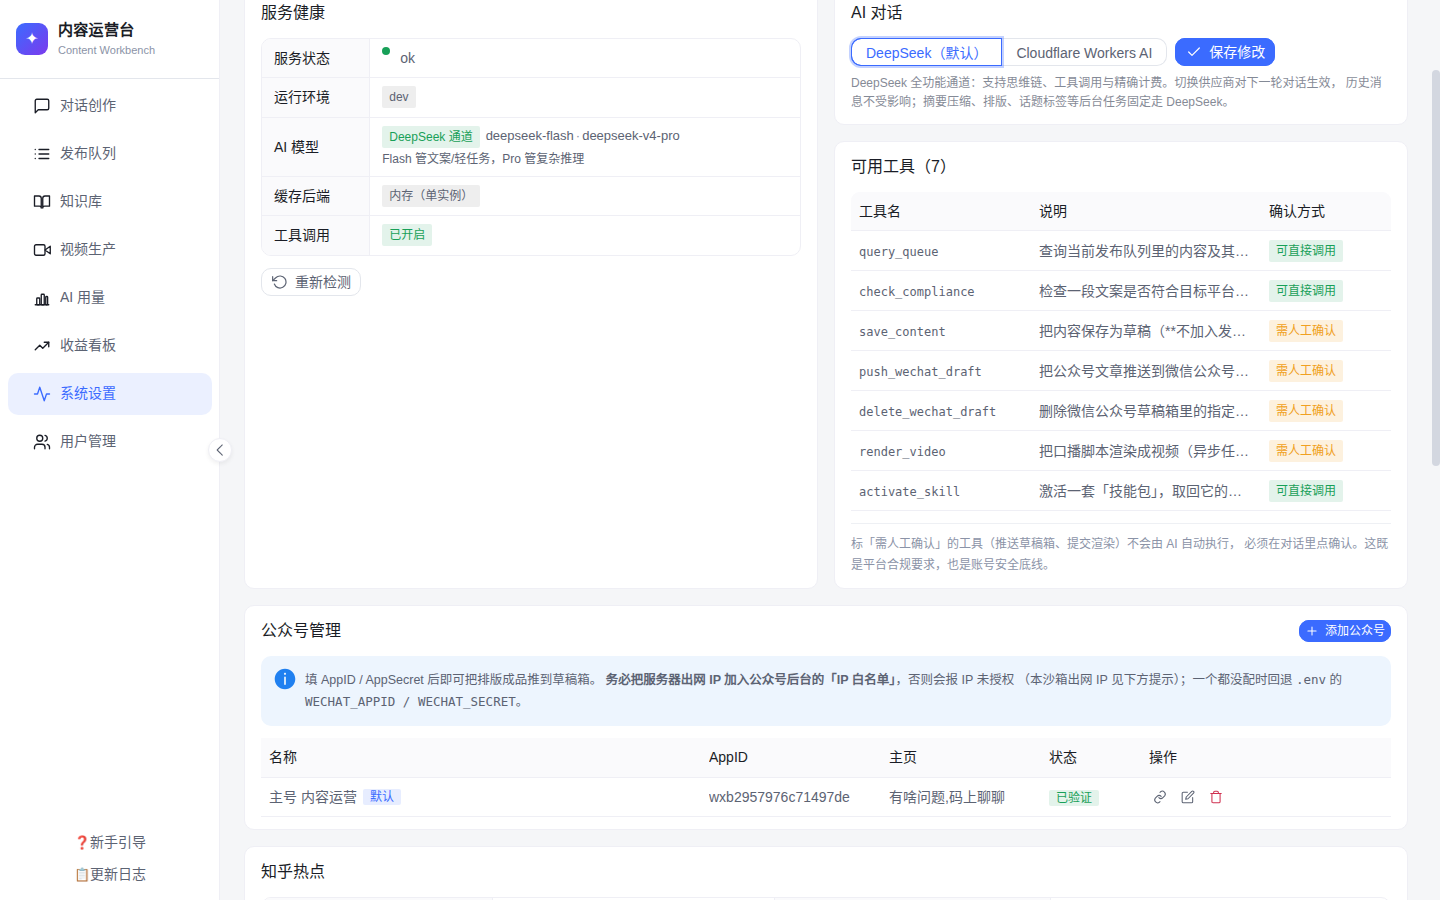
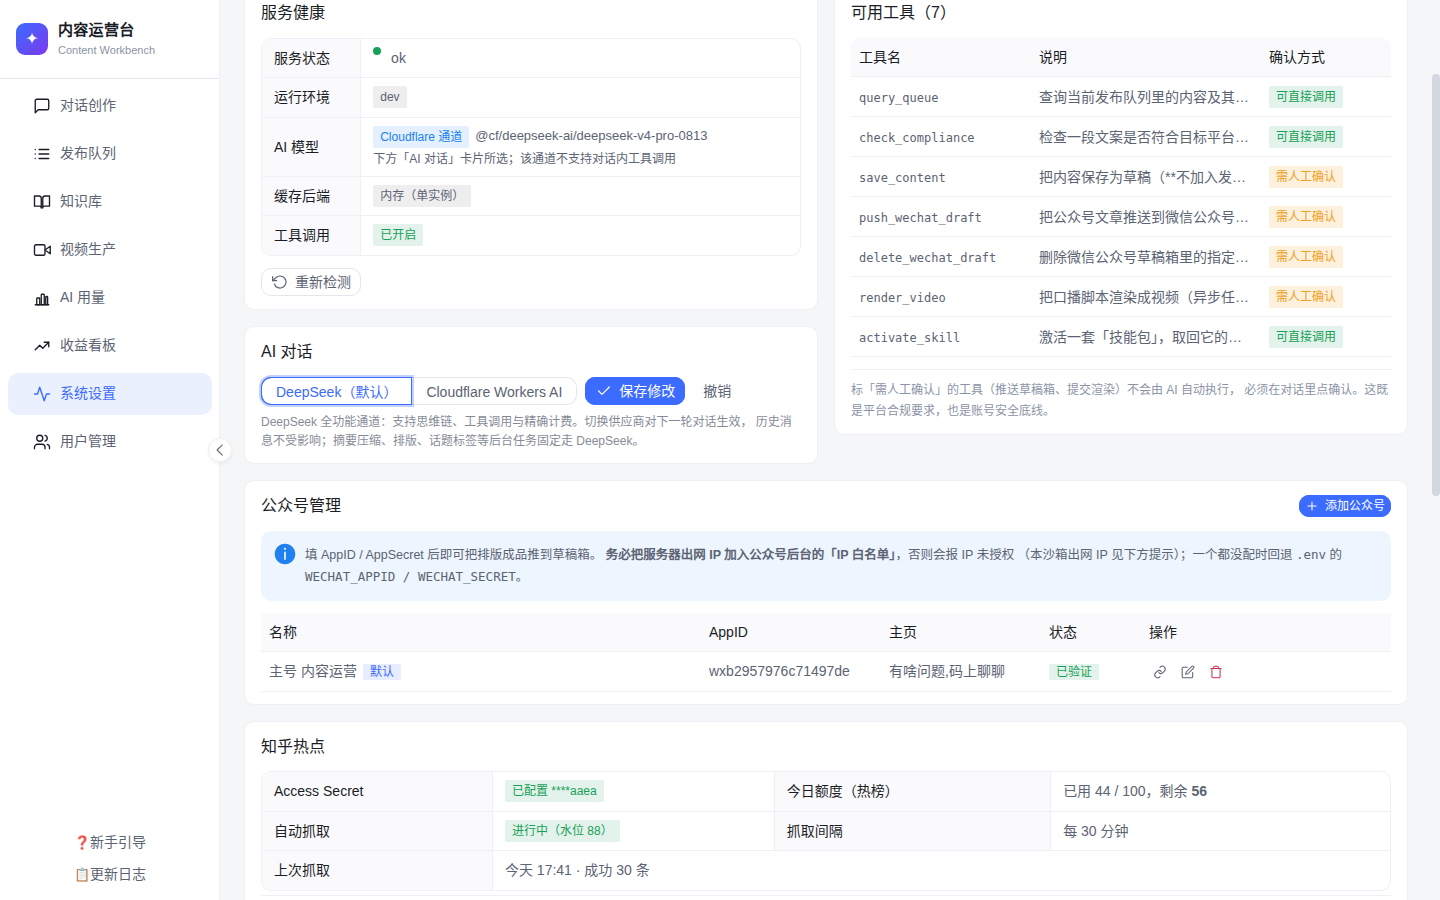
fix(settings): 去掉等高改为按内容高度排 + AI 对话整卡锁定语义
承接上一轮（c86bd54），用户反馈两点：
1. AI 模型已保存为啥还能修改；
2. 服务健康下面又是一大片空白。

布局：等高方案作废，改为按内容高度排
- 上一版把「服务健康」拉到与右列等高（684px），结果只是把空白从卡片外
  搬到卡片内：卡片内部 5 行 descriptions + 按钮只占三分之一，主体下方
  还空着 376px。
- 本轮改成不强行等高，重新分组：左列 = 服务健康(323) + AI 对话(199)，
  右列 = 可用工具(469) 独占。三张卡都按内容高度收尾，整行高度从 684
  降到 538（页面矮了 146px），右下那条缝只剩 69px，由「公众号管理」
  自然跟进填充。
- 删掉 .health-card 相关的 flex 拉伸 CSS 和移动端覆盖。

顺带修掉一个隐藏的 CSS 无效写法
- .health-card 就是 .n-card 本身（NCard 的 class 落在根节点），上一版写
  的 .health-card :deep(.n-card) 选的是不存在的子节点，一条都没命中。
  另外 Naive UI 的内容区类名是 n-card-content，不是 n-card__content。

AI 对话：整卡锁定，不再只有右半边锁
- 上一版只让模型下拉跟随 providerDirty，通道单选始终可点，于是出现
  「下拉框拨不动、旁边单选却能点」的割裂感，用户直接问「已保存为啥还能
  修改」。
- 新增 providerEditing + providerLocked = providerReadonly || !editing：
  未改动时通道和模型都锁住，点「修改」解锁；改动后出现「撤销」，一键还原
  成已生效的值再锁回去。保存成功同样回到锁定态。
- 模型名是长串，手抄回原值不现实，「撤销」比逐字段改回可靠。

服务健康：改为展示「已生效」而非「编辑中」
- AI 模型栏原来读 chatProvider/chatModel，这是编辑中的草稿：拨了通道还没
  保存，服务健康就跟着变，让人以为已经生效。
- 改用 savedProvider/savedCfModel，编辑态一律不影响这一栏。验证：点修改
  拨到 DeepSeek 后健康卡仍显示 Cloudflare，保存后才切换。

验证（CDP 真实鼠标事件）：
  加载后        已保存 / 通道[锁] / 无撤销 / 有修改
  点修改        已保存 / 通道[开] / 无撤销
  拨 DeepSeek   保存修改(蓝) / 出现撤销 / 健康卡仍 Cloudflare
  点撤销        已保存 / 通道[锁] / 无撤销
  保存          健康卡同步切 DeepSeek
  刷新          仍为已保存锁定态

后端 198 项测试全过，vue-tsc 无错。截图更新 settings-layout.png /
settings-dirty.png（后者特意保留了「通道已拨 DeepSeek 但健康卡仍显示
Cloudflare」这个对照）。开发指南补 27-30 条纪律。

注：验证过程中一度把 admin 的 CF 模型写成 deepseek-v4-pro-0813，
已恢复为 @cf/deepseek-ai/deepseek-v4-flash-0731。

diff --git a/frontend/src/views/SettingsView.vue b/frontend/src/views/SettingsView.vue
@@ -87,7 +87,9 @@ const version = useVersionStore()
 // 服务健康的「AI 模型」要显示用户改后的实际模型，只读 health 的
 // .env 配置不够，得和这个拼起来才是真相。
 const chatProvider = ref<ChatProviderInfo>({ provider: 'deepseek', model: '', cloudflare_ready: false })
-const activeCfModel = computed(() => chatProvider.value.model || health.value?.cf_chat_model || '')
+// 已生效的 CF 模型：给「服务健康」用。读 savedModel 而不是 chatProvider.model ——
+// 后者是编辑中的草稿，用户拨了通道还没保存时不该污染「系统现状」这一栏
+const savedCfModel = computed(() => savedModel.value || health.value?.cf_chat_model || '')
 
 // ---------------------------------------------------------------- AI 对话
 // deepseek（默认，全功能）/ cloudflare（Workers AI）。只影响对话轮次，
@@ -115,15 +117,36 @@ const providerSaving = ref(false)
 const savedProvider = ref<ChatProviderInfo['provider']>('deepseek')
 const savedModel = ref('')
 
+// 「点了改才让改」：通道和模型都默认锁住，点「修改」解锁。
+// 光靠 providerDirty 局部禁用模型下拉满足不了这条 —— 通道切换随时可点，
+// 于是出现「下拉框拨不动、旁边单选却能点」的割裂感（用户 2026-10-22 反馈）。
+const providerEditing = ref(false)
+
 const providerDirty = computed(
   () =>
     chatProvider.value.provider !== savedProvider.value ||
     (chatProvider.value.provider === 'cloudflare' && chatModel.value !== savedModel.value),
 )
 
+// 控件是否可操作：只读（member）、未点「修改」、通道未就绪，三者任一都锁住
+const providerLocked = computed(() => providerReadonly.value || !providerEditing.value)
+
+function beginProviderEdit() {
+  providerEditing.value = true
+}
+
+// 撤销：把两个值都还原成已生效的版本，回到「已保存」。
+// 比逐字段手改回原值可靠 —— 模型名是长串，人不会想手抄一遍。
+function cancelProviderEdit() {
+  chatProvider.value = { ...chatProvider.value, provider: savedProvider.value, model: savedModel.value }
+  chatModel.value = savedModel.value
+  providerEditing.value = false
+}
+
 function markProviderSaved(provider: ChatProviderInfo['provider'], model: string) {
   savedProvider.value = provider
   savedModel.value = provider === 'cloudflare' ? model : ''
+  providerEditing.value = false
 }
 
 async function loadCfModels() {
@@ -159,7 +182,7 @@ function onProviderChange(v: string) {
     // 之前这里什么都没做，而切走时又清空了 chatModel —— 于是
     // 「DeepSeek → Cloudflare」这个来回会把 model 从原值变成空串，
     // 脏状态判定为 true，明明改回了原样却还提示「保存修改」。
-    chatModel.value = savedModel.value
+    chatModel.value = savedModel.value || chatModel.value
   }
   // 切到 DeepSeek 不清 chatModel：CF 模型选择原样留在内存里，
   // 切回来能复原，且保存时只看 provider === 'cloudflare' 才提交 model，
@@ -169,12 +192,12 @@ function onProviderChange(v: string) {
 async function saveChatProvider() {
   if (providerReadonly.value) return // 双保险：按钮禁用了，函数这层也拦
   if (!providerDirty.value) return // 没改动就别发请求（按钮本该是灰的）
+  // 切回原有通道但模型空格：直接用已存模型，别把空串提交上去
+  const model =
+    chatProvider.value.provider === 'cloudflare' ? chatModel.value || savedModel.value : ''
   providerSaving.value = true
   try {
-    const p = await updateChatProvider({
-      provider: chatProvider.value.provider,
-      model: chatProvider.value.provider === 'cloudflare' ? chatModel.value : '',
-    })
+    const p = await updateChatProvider({ provider: chatProvider.value.provider, model })
     // 返回值没有 cloudflare_ready（接口只回 ok/provider/model），保留本地这份，
     // 否则服务健康卡片的通道判断会丢掉 CF 就绪状态
     chatProvider.value = {
@@ -636,8 +659,16 @@ const envColumns: DataTableColumns<EnvRow> = [
       <!-- 用户级设置（账号资料 / 使用配额 / 作者信息 / AI 对话偏好）
            已搬到「个人中心」—— 顶栏头像下拉进入 -->
 
+      <!-- 三张卡不强行等高，各按内容高度排（2026-10-22 用户定的方向）：
+           「服务健康」约 320px、「AI 对话」约 200px、「可用工具」约 470px。
+           等高方案试过两轮，结果都是把空白从卡片外搬到卡片内，不如干脆让
+           左列短一截 —— 底部那片由「公众号管理」自然跟进填充。
+           左列放「服务健康 + AI 对话」（都是「当前系统状态」类只读信息），
+           右列单独放「可用工具」（它是最长的一张，独占一列才不会把左列
+           拉到 470px 又在下面留出第二块空白）。 -->
       <div class="grid">
-        <NCard size="small" title="服务健康" class="health-card">
+        <div class="grid-col">
+          <NCard size="small" title="服务健康">
           <!-- label 位置响应式：移动端 label 置顶，内容（通道 tag + 模型名 +
                分工注释）吃满行宽，不与 label 互相挤压把行撑高 -->
           <NDescriptions
@@ -659,17 +690,21 @@ const envColumns: DataTableColumns<EnvRow> = [
             </NDescriptionsItem>
             <NDescriptionsItem label="AI 模型">
               <template v-if="health?.llm_configured">
+                <!-- 这里展示的是**已生效**的通道，读 savedProvider/savedModel
+                     而不是 chatProvider/chatModel。后者是「编辑中的草稿」：
+                     用户点「修改」拨到 DeepSeek 但还没保存时，服务健康要
+                     继续显示 Cloudflare —— 它描述的是系统现状，不是预览。 -->
                 <div class="ai-model-cell">
                   <NTag
                     size="small"
                     :bordered="false"
-                    :type="chatProvider.provider === 'cloudflare' ? 'info' : 'success'"
+                    :type="savedProvider === 'cloudflare' ? 'info' : 'success'"
                   >
-                    {{ chatProvider.provider === 'cloudflare' ? 'Cloudflare 通道' : 'DeepSeek 通道' }}
+                    {{ savedProvider === 'cloudflare' ? 'Cloudflare 通道' : 'DeepSeek 通道' }}
                   </NTag>
                   <span class="ai-model-name">
-                    <template v-if="chatProvider.provider === 'cloudflare'">
-                      {{ activeCfModel || '未选择模型' }}
+                    <template v-if="savedProvider === 'cloudflare'">
+                      {{ savedCfModel || '未选择模型' }}
                     </template>
                     <template v-else>
                       {{ health.model_flash }}<span class="ai-model-sep">·</span>{{ health.model_pro }}
@@ -677,8 +712,8 @@ const envColumns: DataTableColumns<EnvRow> = [
                   </span>
                 </div>
                 <div class="ai-model-note">
-                  <template v-if="chatProvider.provider === 'cloudflare'">
-                    上方「AI 对话」卡片所选；该通道不支持对话内工具调用
+                  <template v-if="savedProvider === 'cloudflare'">
+                    下方「AI 对话」卡片所选；该通道不支持对话内工具调用
                   </template>
                   <template v-else>
                     Flash 管文案/轻任务，Pro 管复杂推理<template v-if="health.fallback_model">；兜底 {{ health.fallback_model }}</template>
@@ -702,11 +737,6 @@ const envColumns: DataTableColumns<EnvRow> = [
           <IconTextBtn name="reset" style="margin-top: 12px" @click="refresh">重新检测</IconTextBtn>
         </NCard>
 
-        <!-- 右列：AI 对话 + 可用工具。
-             这两张卡天然相关（对话通道决定工具能不能用），堆在同一列让右列
-             有内容、左边服务健康独占一列 —— 原来三张卡在 2 列网格里流式排布，
-             右列只剩 AI 对话一张矮卡，右下空出一大片。 -->
-        <div class="grid-col">
         <!-- AI 对话通道：DeepSeek（默认，全功能）/ Cloudflare Workers AI（免费额度大，
              但不支持对话内工具调用、计费按估价）。只影响对话，后台任务仍走 DeepSeek。
              切换权仅管理员（member 只读，后端同样 403）。2026-10-21 从个人中心搬来：
@@ -720,7 +750,7 @@ const envColumns: DataTableColumns<EnvRow> = [
               <NRadioGroup
                 :value="chatProvider.provider"
                 size="small"
-                :disabled="providerReadonly"
+                :disabled="providerLocked"
                 @update:value="onProviderChange"
               >
                 <NRadioButton value="deepseek">DeepSeek（默认）</NRadioButton>
@@ -733,10 +763,22 @@ const envColumns: DataTableColumns<EnvRow> = [
                 style="width: 340px"
                 :options="cfModels.map((m) => ({ label: m.label, value: m.name }))"
                 :loading="cfModelsLoading"
-                :disabled="!chatProvider.cloudflare_ready || providerReadonly"
+                :disabled="!chatProvider.cloudflare_ready || providerLocked"
                 placeholder="选择对话模型"
                 filterable
               />
+              <!-- 「点了改、再点保存」这个节奏要一致：没改动时通道和模型都锁住，
+                   点「修改」才解锁（下拉旁的小按钮）。否则只有左半边锁着、
+                   右上角的模型还能随便拨，语义就对不上了。 -->
+              <NButton
+                v-if="!providerDirty && !providerReadonly && chatProvider.provider === 'cloudflare'"
+                size="small"
+                quaternary
+                :disabled="!chatProvider.cloudflare_ready"
+                @click="beginProviderEdit"
+              >
+                修改
+              </NButton>
               <IconTextBtn
                 name="check"
                 :type="providerDirty ? 'primary' : 'default'"
@@ -746,6 +788,15 @@ const envColumns: DataTableColumns<EnvRow> = [
               >
                 {{ providerDirty ? '保存修改' : '已保存' }}
               </IconTextBtn>
+              <NButton
+                v-if="providerDirty && !providerReadonly"
+                size="small"
+                quaternary
+                :disabled="providerSaving"
+                @click="cancelProviderEdit"
+              >
+                撤销
+              </NButton>
             </div>
           </NSpin>
           <div class="api-base-hint" style="margin-top: 8px; opacity: 0.75">
@@ -772,7 +823,10 @@ const envColumns: DataTableColumns<EnvRow> = [
             </template>
           </div>
         </NCard>
+        </div>
 
+        <!-- 右列：可用工具独占一列。它是最长的一张（7 个工具约 470px），
+             和服务健康（约 320px）分开站，两列各自按内容高度收尾。 -->
         <NCard size="small" :title="`可用工具（${tools.length}）`">
           <NDataTable
             v-if="tools.length"
@@ -796,7 +850,6 @@ const envColumns: DataTableColumns<EnvRow> = [
             </template>
           </div>
         </NCard>
-        </div>
       </div>
 
       <NCard size="small" title="公众号管理" style="margin-top: 16px">
@@ -1101,24 +1154,14 @@ const envColumns: DataTableColumns<EnvRow> = [
   align-items: start;
 }
 
-/* 右列：两张卡竖排。原来三张卡直接塞进 2 列网格，流式排布下
-   右列只有一张矮卡，右下留一大片空白（2026-10-22 用户反馈）。 */
+/* 左列：服务健康 + AI 对话竖排。
+   两列都在 2 列网格里按内容高度收尾（align-items:start），不强行等高 ——
+   等高只会把空白从卡片外搬到卡片内。 */
 .grid-col {
   display: flex;
   flex-direction: column;
   gap: 16px;
   min-width: 0;
-}
-
-/* 让「服务健康」与右列等高：grid 默认 align-items:start 会让左卡只占
-   内容高度，右列两卡叠起来比它高，左下就是一块空白。拉伸后再把卡片
-   内部撑满（NABCard 的 .n-card 是 flex column），空白变成留白而不是断崖。
-   移动端单列时无意义，媒体查询里放开。 */
-.health-card {
-  height: 100%;
-}
-.health-card :deep(.n-card) {
-  height: 100%;
 }
 
 .tip {
@@ -1180,10 +1223,6 @@ const envColumns: DataTableColumns<EnvRow> = [
 @media (max-width: 900px) {
   .grid {
     grid-template-columns: minmax(0, 1fr);
-  }
-  /* 单列时两列各自按内容高度排，拉伸反而会让服务健康卡莫名变很高 */
-  .health-card {
-    height: auto;
   }
 }
 </style>

diff --git a/docs/开发指南.md b/docs/开发指南.md
@@ -255,6 +255,10 @@ async def gen_cover_image(topic: str, style: str = "clean") -> dict:
 24. **动态工具的 enum 不能写死**：`activate_skill` 的 `name` 必须按 owner 实时算 enum（`dynamic_tool` + `registry.schemas_for(ctx)`）。写死或复用 `registry.schemas()` 会有两个坑：① 把 A 用户的技能名发给 B 用户的模型；② 没有技能时发出一个空 enum 工具，模型会反复试错。**没有可用技能时整个工具不出现**是刻意的，不是 bug。
 25. **技能导入失败不能覆盖同名的可用版本**：先传对了再传坏文件，好技能会被打成 invalid 且无法撤销（2026-10-22 实测）。`upsert_skill` 在「同名已有 ready 版本」时改为抛 `SkillParseError` 由路由转 400。改这块前先看 `tests/test_skill.py::test_broken_import_does_not_clobber_good_version`。
 26. **动态工具要长得像 Tool**：`DynamicTool` 必须暴露 `description` / `requires_confirm`。`GET /api/tools`（系统设置「可用工具」卡片）是**无上下文**端点，它按 `t.description` 读属性；少一个就 500，前端 catch 成空数组，卡片显示「可用工具（0）」——2026-10-22 实际踩到。该端点已改为走 `registry.schemas()`，但动态工具补 property 仍要保留。
+27. **NCard 的 `class` 落在 `.n-card` 根节点上，不是包一层**：想改卡片自身用 `.my-card { ... }`，想改内容区用 `.my-card :deep(.n-card-content)`（注意 Naive UI 里是 `n-card-content`，**不是** `n-card__content`）。2026-10-22 在系统设置「服务健康」卡上写了 `.health-card :deep(.n-card) { height:100% }`，选的是不存在的子节点，一条没命中，高度纹丝不动，查了半天。
+28. **「等高」解决不了「一边比另一边短」**：两列卡片内容差 150px 以上时，拉齐只把空白从卡片外搬到卡片内。2026-10-22 系统设置页返工两轮才认下这点，最后是**按内容高度排 + 重新分组**（服务健康 + AI 对话占左列，可用工具独占右列），页面整体矮了 146px。先量三张卡的实际高度（`getBoundingClientRect()`）再决定分组，别先写 CSS。
+29. **「已保存 / 保存修改」要整卡一致的锁定语义**：系统设置 AI 对话卡最初只有模型下拉跟随 `providerDirty`，通道单选始终可点 —— 用户看到「下拉框拨不动、旁边单选却能点」（2026-10-22 反馈）。现在统一由 `providerLocked = providerReadonly || !providerEditing` 控制，未点「修改」时整卡锁死，改动后出现「撤销」。
+30. **「系统现状」类展示读已生效值，不读编辑态**：服务健康卡的 AI 模型栏读 `savedProvider/savedModel` 而不是 `chatProvider/chatModel`。后者是编辑中的草稿 —— 用户拨了通道还没保存，服务健康不能跟着变，否则一改通道就让人以为已经生效了。这条同样适用于任何「状态面板 + 可编辑表单」并存的页面。
 22. **同一音色 id 的复刻必须串行**：`create_profile` 用**音频内容 MD5 前 12 位**做 profile_id（重复上传同一录音命中同一 id，避免列表里出现多个一模一样的音色）。但同一 id 的多次复刻会**共享同一目录**，并发跑会互相删掉对方的 `reference_raw` / `reference.wav` —— 症状是音色出现在列表里、可试听接口 404、渲染时找不到参考音频。已在 `clone_voice()` 外层加 `_clone_locks`（每 profile 一把 `asyncio.Lock`）串行化解决。
 
     **最典型的触发场景：用户把同一段录音传了两次**（手滑、或以为没传成功又传一次）。两次上传命中同一 id（这是设计的正常行为，目的是不产生重复音色），但两次复刻并发跑就把文件踩坏了。已修复并实测验证：连传两次 → 目录 `meta.json` + `reference.wav` + `voice.json` 全部完整，试听 200，列表里只出现 1 条。
